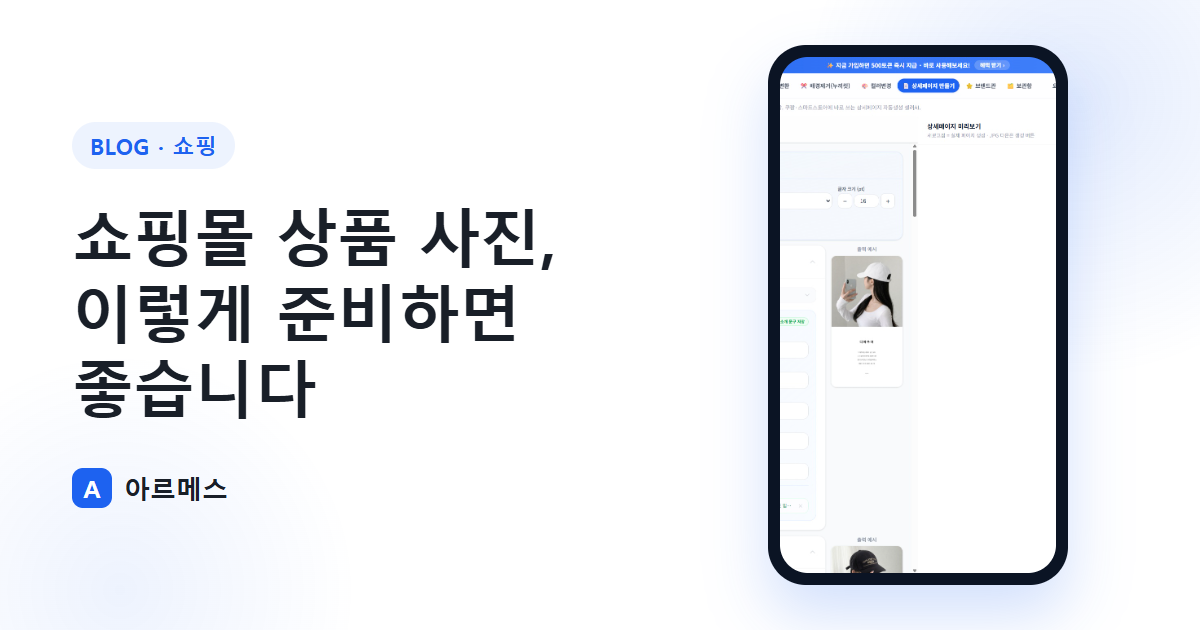
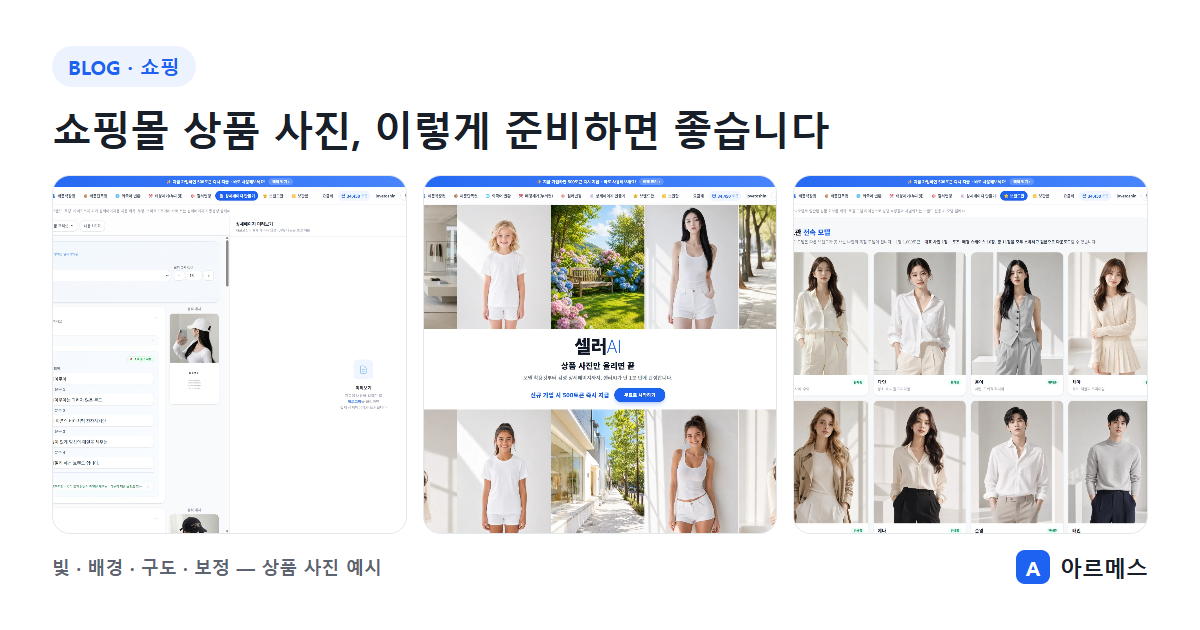
style: 블로그 이미지/레이아웃 개선 (본문 글 미수정)
- 본문 이미지 CSS 확대: figure.shot 300px→본문폭 가득(인포그래픽)/폰 460px,
  figure.shots 224px→한 줄 가득(데스크탑 345px·모바일 줄바꿈 풀폭)
- 작은 썸네일 형태 제거, 모바일 포함 본문 폭 기준 확대
- 커버 5종 재구성(동일 템플릿→주제별 실제 화면/결과 주인공):
  모델컷=생성결과, 배치순서=①~④순서, 스마트스토어=체크리스트+실화면,
  누끼=전/후 비교, 상품사진=예시 3컷

diff --git a/app/globals.css b/app/globals.css
@@ -244,17 +244,28 @@ body {
   margin-top: 0.6rem;
   line-height: 1.5;
 }
+/* 단일 이미지: 기본은 본문 폭 가득 (가로형 인포그래픽·서비스 화면) */
 .post-body figure.shot img {
-  max-width: 300px;
+  max-width: 100%;
+  width: 100%;
 }
+/* 단일 폰 스크린샷(세로형)은 너무 길어지지 않게, 그래도 충분히 크게 */
+.post-body figure.shot img[src*="/projects/"] {
+  max-width: 460px;
+  width: 100%;
+}
+/* 나란히 비교(폰 2장): 한 줄을 가득 채워 크게, 좁은 화면에선 줄바꿈 */
 .post-body figure.shots {
   display: flex;
-  gap: 12px;
+  gap: 14px;
   justify-content: center;
   flex-wrap: wrap;
 }
 .post-body figure.shots img {
-  max-width: 224px;
+  flex: 1 1 260px;
+  min-width: 260px;
+  max-width: 100%;
+  width: auto;
 }
 
 /* ===== 본문 인용구 ===== */
